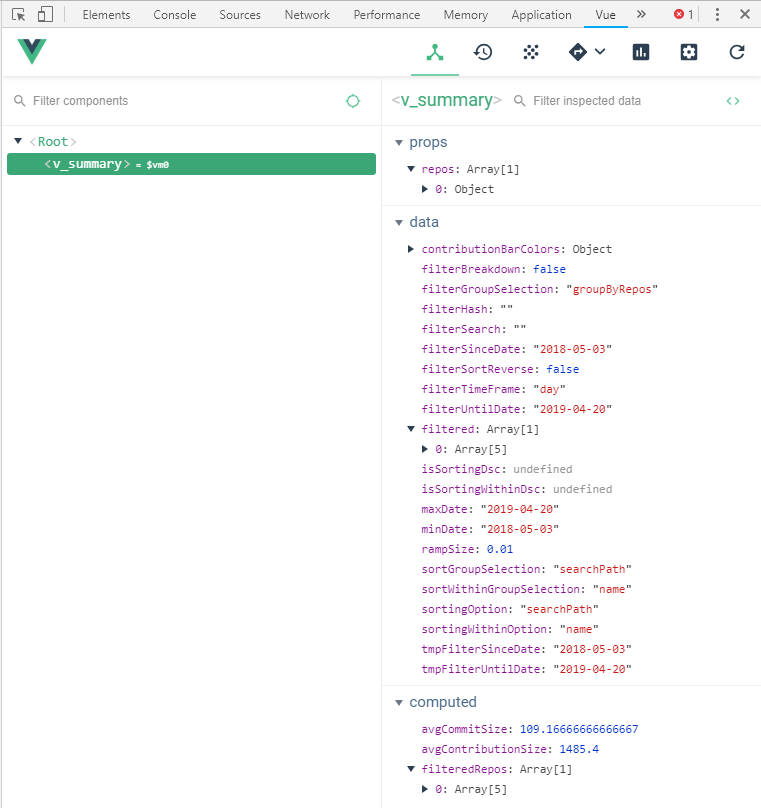
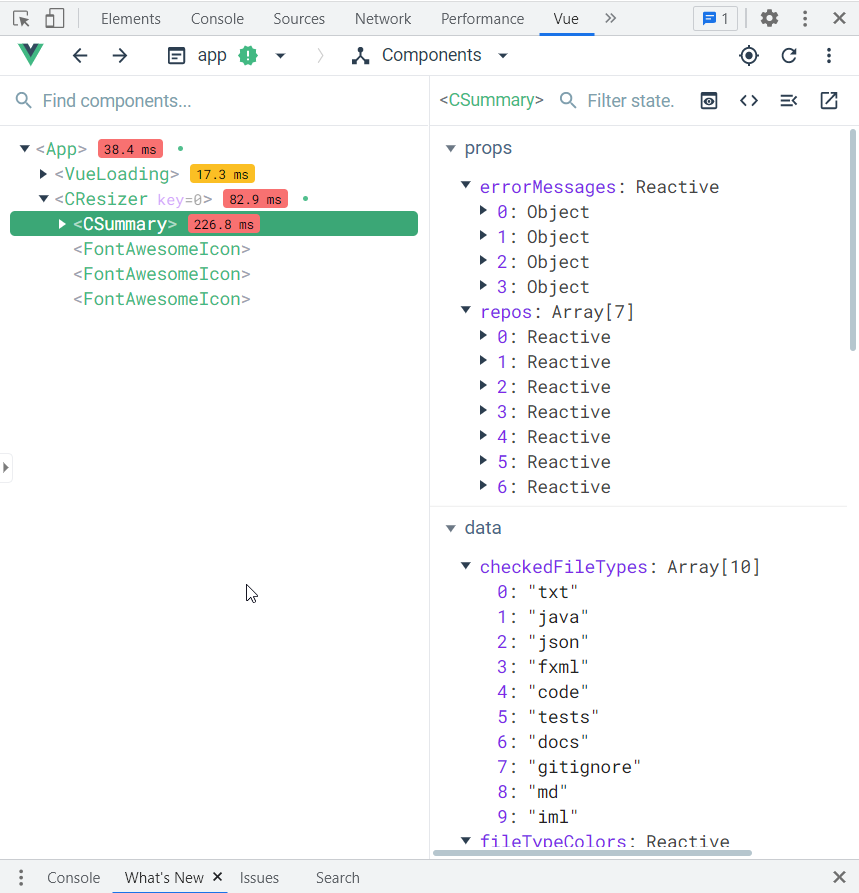
[#1665] rename frontend component (#1836)
The components are all named with a prefix `v-`. However, most reserved
syntax used by Vue uses the `v-` prefix.

Let's change the `-v` prefix to prefix `c-`, so that it will be less
likely to cause confusion and conflicts.

diff --git a/frontend/src/app.vue b/frontend/src/app.vue
@@ -10,10 +10,10 @@
       h3 {{ loadingOverlayMessage }}
 
   template(v-if="userUpdated")
-    v-resizer
+    c-resizer
       template(v-slot:left)
         #summary-wrapper
-          v-summary.tab-padding(
+          c-summary.tab-padding(
             ref="summary",
             v-bind:repos="users",
             v-bind:error-messages="errorMessages"
@@ -42,8 +42,8 @@
         #tabs-wrapper(ref="tabWrapper")
           .tab-content.panel-padding
             .tab-pane
-              v-authorship#tab-authorship(v-if="tabType === 'authorship'")
-              v-zoom#tab-zoom(v-else-if="tabType === 'zoom'")
+              c-authorship#tab-authorship(v-if="tabType === 'authorship'")
+              c-zoom#tab-zoom(v-else-if="tabType === 'zoom'")
               #tab-empty(v-else)
                 .title
                   h2 Welcome to this RepoSense report!
@@ -80,10 +80,10 @@ import JSZip from 'jszip';
 import LoadingOverlay from 'vue-loading-overlay';
 import { mapState } from 'vuex';
 
-import vResizer from './components/v-resizer.vue';
-import vZoom from './views/v-zoom.vue';
-import vSummary from './views/v-summary.vue';
-import vAuthorship from './views/v-authorship.vue';
+import cResizer from './components/c-resizer.vue';
+import cZoom from './views/c-zoom.vue';
+import cSummary from './views/c-summary.vue';
+import cAuthorship from './views/c-authorship.vue';
 
 const loadingResourcesMessage = 'Loading resources...';
 
@@ -304,10 +304,10 @@ const app = {
 
   components: {
     LoadingOverlay,
-    vResizer,
-    vZoom,
-    vSummary,
-    vAuthorship,
+    cResizer,
+    cZoom,
+    cSummary,
+    cAuthorship,
   },
   created() {
     window.decodeHash();

diff --git a/frontend/src/views/c-summary.vue b/frontend/src/views/c-summary.vue
@@ -111,7 +111,7 @@
             v-on:change="getFiltered"
           )
           span {{ fileType }}
-  v-summary-charts(
+  c-summary-charts(
     v-bind:filtered="filtered",
     v-bind:checked-file-types="checkedFileTypes",
     v-bind:avg-contribution-size="avgContributionSize",
@@ -130,7 +130,7 @@
 <script>
 import { mapState } from 'vuex';
 
-import vSummaryCharts from '../components/v-summary-charts.vue';
+import cSummaryCharts from '../components/c-summary-charts.vue';
 import getNonRepeatingColor from '../utils/ramp-colour-generator';
 import sortFiltered from '../utils/repo-sorter';
 
@@ -138,9 +138,9 @@ const getFontColor = window.getFontColor;
 const dateFormatRegex = /([12]\d{3}-(0[1-9]|1[0-2])-(0[1-9]|[12]\d|3[01]))$/;
 
 export default {
-  name: 'v-summary',
+  name: 'c-summary',
   components: {
-    vSummaryCharts,
+    cSummaryCharts,
   },
   props: ['repos', 'errorMessages'],
   data() {

diff --git a/frontend/src/views/c-authorship.vue b/frontend/src/views/c-authorship.vue
@@ -158,13 +158,13 @@
           .ignored-segment
             .ignore-text File is ignored.
         pre.hljs.file-content(v-else-if="file.wasCodeLoaded", v-show="file.active")
-          v-segment-collection(v-bind:segments="file.segments", v-bind:path="file.path")
+          c-segment-collection(v-bind:segments="file.segments", v-bind:path="file.path")
 </template>
 
 <script>
 import { mapState } from 'vuex';
 import minimatch from 'minimatch';
-import vSegmentCollection from '../components/v-segment-collection.vue';
+import cSegmentCollection from '../components/c-segment-collection.vue';
 
 const getFontColor = window.getFontColor;
 
@@ -197,9 +197,9 @@ function authorshipInitialState() {
 const repoCache = [];
 
 export default {
-  name: 'v-authorship',
+  name: 'c-authorship',
   components: {
-    vSegmentCollection,
+    cSegmentCollection,
   },
   emits: [
       'deactivate-tab',

diff --git a/frontend/src/components/c-summary-charts.vue b/frontend/src/components/c-summary-charts.vue
@@ -142,7 +142,7 @@
       .summary-chart__ramp(
         v-on:click="openTabZoomSubrange(user, $event, isGroupMerged(getGroupName(repo)))"
       )
-        v-ramp(
+        c-ramp(
           v-bind:groupby="filterGroupSelection",
           v-bind:user="user",
           v-bind:tframe="filterTimeFrame",
@@ -180,12 +180,12 @@
 <script>
 import { mapState } from 'vuex';
 
-import vRamp from './v-ramp.vue';
+import cRamp from './c-ramp.vue';
 
 export default {
-  name: 'v-summary-charts',
+  name: 'c-summary-charts',
   components: {
-    vRamp,
+    cRamp,
   },
   props: ['checkedFileTypes', 'filtered', 'avgContributionSize', 'filterBreakdown',
       'filterGroupSelection', 'filterTimeFrame', 'filterSinceDate', 'filterUntilDate', 'isMergeGroup',

diff --git a/frontend/src/views/c-zoom.vue b/frontend/src/views/c-zoom.vue
@@ -43,7 +43,7 @@
               font-awesome-icon(icon="tags")
               span &nbsp;{{ tag }}
 
-  v-ramp(
+  c-ramp(
     v-bind:groupby="info.zFilterGroup",
     v-bind:user="filteredUser",
     v-bind:tframe="info.zTimeFrame",
@@ -134,7 +134,7 @@
 <script>
 import { mapState } from 'vuex';
 import { FontAwesomeIcon } from '@fortawesome/vue-fontawesome';
-import vRamp from '../components/v-ramp.vue';
+import cRamp from '../components/c-ramp.vue';
 
 const getFontColor = window.getFontColor;
 
@@ -150,10 +150,10 @@ function zoomInitialState() {
 }
 
 export default {
-  name: 'v-zoom',
+  name: 'c-zoom',
   components: {
     FontAwesomeIcon,
-    vRamp,
+    cRamp,
   },
   data() {
     return {

diff --git a/frontend/src/components/c-segment-collection.vue b/frontend/src/components/c-segment-collection.vue
@@ -1,16 +1,16 @@
 <template lang="pug">
 .segment-collection(v-observe-visibility="{ callback: visibilityChanged }")
   template(v-if="isRendered", v-for="segment in segments")
-    v-segment(v-bind:segment="segment", v-bind:path="path")
+    c-segment(v-bind:segment="segment", v-bind:path="path")
 </template>
 
 <script>
-import vSegment from './v-segment.vue';
+import cSegment from './c-segment.vue';
 
 export default {
-  name: 'v-segment-collection',
+  name: 'c-segment-collection',
   components: {
-    vSegment,
+    cSegment,
   },
   props: ['segments', 'path'],
   data() {

diff --git a/frontend/src/components/c-ramp.vue b/frontend/src/components/c-ramp.vue
@@ -34,7 +34,7 @@
 
 <script>
 export default {
-  name: 'v-ramp',
+  name: 'c-ramp',
   props: ['groupby', 'user', 'tframe', 'avgsize', 'sdate', 'udate', 'mergegroup', 'fromramp', 'filtersearch'],
   data() {
     return {

diff --git a/frontend/src/components/c-resizer.vue b/frontend/src/components/c-resizer.vue
@@ -39,7 +39,7 @@ const throttledEvent = (delay, handler) => {
 };
 
 export default {
-  name: 'v-resizer',
+  name: 'c-resizer',
 
   data() {
     return {

diff --git a/frontend/src/components/c-segment.vue b/frontend/src/components/c-segment.vue
@@ -26,7 +26,7 @@
 
 <script>
 export default {
-  name: 'v-segment',
+  name: 'c-segment',
   props: ['segment', 'path'],
   data() {
     return {

diff --git a/docs/dg/report.md b/docs/dg/report.md
@@ -36,11 +36,11 @@ The tabbed interface is responsible for loading various modules such as authorsh
 - **main.js** - sets up plugins and 3rd party components used in the report
 - [**app.vue**](#app-app-vue) - module that supports the report interface
 - [**api.js**](#data-loader-api-js) - loading and parsing of the report content
-- [**v_summary.vue**](#summary-view-v-summary-vue) - module that supports the summary view
-- [**v_authorship.vue**](#authorship-view-v-authorship-vue) - module that supports the authorship tab view
-- [**v_zoom.vue**](#zoom-view-v-zoom-vue) - module that supports the zoom tab view
-- [**v_ramp.vue**](#ramp-view-v-ramp-vue) - module that supports the ramp chart view
-- [**v_segment.vue**](#segment-view-v-segment-vue) - module that supports the code segment view
+- [**c_summary.vue**](#summary-view-c-summary-vue) - module that supports the summary view
+- [**c_authorship.vue**](#authorship-view-c-authorship-vue) - module that supports the authorship tab view
+- [**c_zoom.vue**](#zoom-view-c-zoom-vue) - module that supports the zoom tab view
+- [**c_ramp.vue**](#ramp-view-c-ramp-vue) - module that supports the ramp chart view
+- [**c_segment.vue**](#segment-view-c-segment-vue) - module that supports the code segment view
 
 <!-- ==================================================================================================== -->
 
@@ -58,12 +58,12 @@ This contains the logic for the main VueJS object, `app.vue`, which is the entry
 
 Vuex in `store.js` is used to pass the necessary data into the relevant modules.
 
-`v_summary`, `v_authorship`, `v_zoom`, `v_segment`, and `v_ramp` are components embedded into the report and will render the corresponding content based on the data passed into it from Vuex.
+`c_summary`, `c_authorship`, `c_zoom`, `c_segment`, and `c_ramp` are components embedded into the report and will render the corresponding content based on the data passed into it from Vuex.
 
 ### Loading of report information
 The main Vue object depends on the `summary.json` data to determine the right `commits.json` files to load into memory. This is handled by `api.js`, which loads the relevant file information from the network files if available; otherwise, a report archive, `archive.zip`, has to be used.
 
-Once the relevant `commit.json` files are loaded, all the repo information will be passed into `v_summary` to be loaded in the summary view as the relevant ramp charts.
+Once the relevant `commit.json` files are loaded, all the repo information will be passed into `c_summary` to be loaded in the summary view as the relevant ramp charts.
 
 ### Activating additional view modules
 Most activity or actions should happen within the module itself, but in the case where there is a need to spawn or alter the view of another module, an event is emitted from the first module to the Vuex store, which then handles the data received and passes it along to the relevant modules.
@@ -88,9 +88,9 @@ For the basic skeleton of `window.REPOS`, refer to the generated `summary.json` 
 
 <!-- ==================================================================================================== -->
 
-## Summary view ([v-summary.vue](https://github.com/reposense/RepoSense/blob/master/frontend/src/views/v-summary.vue))
+## Summary view ([c-summary.vue](https://github.com/reposense/RepoSense/blob/master/frontend/src/views/c-summary.vue))
 
-The `v_summary` module is in charge of loading the ramp charts from the corresponding `commits.json`.
+The `c_summary` module is in charge of loading the ramp charts from the corresponding `commits.json`.
 
 <puml src="../diagrams/ReportArchitectureSummary.puml"/>
 
@@ -102,7 +102,7 @@ The commits information is retrieved from the corresponding project folders for 
 
 <!-- ==================================================================================================== -->
 
-## Authorship view ([v-authorship.vue](https://github.com/reposense/RepoSense/blob/master/frontend/src/views/v-authorship.vue))
+## Authorship view ([c-authorship.vue](https://github.com/reposense/RepoSense/blob/master/frontend/src/views/c-authorship.vue))
 
 The authorship module retrieves the relevant information from the corresponding `authorship.json` file if it is not yet loaded. If it has been loaded, the data will be written into `window.REPOS` and be read from there instead.
 
@@ -113,21 +113,21 @@ The files will be filtered, picking only files the selected author has written i
 
 <!-- ==================================================================================================== -->
 
-## Zoom view ([v-zoom.vue](https://github.com/reposense/RepoSense/blob/master/frontend/src/views/v-zoom.vue))
+## Zoom view ([c-zoom.vue](https://github.com/reposense/RepoSense/blob/master/frontend/src/views/c-zoom.vue))
 
-The `v_zoom` module is in charge of filtering and displaying the commits from the ramp chart's selected sub-range.
+The `c_zoom` module is in charge of filtering and displaying the commits from the ramp chart's selected sub-range.
 
 <!-- ==================================================================================================== -->
 
-## Ramp view ([v-ramp.vue](https://github.com/reposense/RepoSense/blob/master/frontend/src/components/v-ramp.vue))
+## Ramp view ([c-ramp.vue](https://github.com/reposense/RepoSense/blob/master/frontend/src/components/c-ramp.vue))
 
-The `v_ramp` module is responsible for receiving the relevant information from `v_summary` and generating ramp charts that contain ramp slices.
+The `c_ramp` module is responsible for receiving the relevant information from `c_summary` and generating ramp charts that contain ramp slices.
 
 ### Padding for dates
 For ramps between the date ranges, the slices will be selected and it will be pre and post padded with empty slices to align the ramp slice between the `sinceDate` and `untilDate`. The ramps will then be rendered with the slices in the right position.
 
 <!-- ==================================================================================================== -->
 
-## Segment view ([v-segment.vue](https://github.com/reposense/RepoSense/blob/master/frontend/src/components/v-segment.vue))
+## Segment view ([c-segment.vue](https://github.com/reposense/RepoSense/blob/master/frontend/src/components/c-segment.vue))
 
-The `v-segment` module is used as a component in `v_authorship`. It separates the code in terms of "touched" and "untouched" segments and only loads each "untouched" segment when it is toggled.
+The `c-segment` module is used as a component in `c_authorship`. It separates the code in terms of "touched" and "untouched" segments and only loads each "untouched" segment when it is toggled.

diff --git a/docs/dg/learningBasics.md b/docs/dg/learningBasics.md
@@ -333,29 +333,29 @@ Here are some small tasks for you to gain some basic knowledge of the code relat
 
   <panel header="Hint 1">
 
-  Try to locate where the author title is in [`v-summary-charts.vue`](https://github.com/reposense/RepoSense/blob/master/frontend/src/components/v-summary-charts.vue).
+  Try to locate where the author title is in [`c-summary-charts.vue`](https://github.com/reposense/RepoSense/blob/master/frontend/src/components/c-summary-charts.vue).
   </panel>
 
   <panel header="Hint 2">
 
-  You can check what `activeUser` and `activeRepo` do in [`v-summary-charts.vue`](https://github.com/reposense/RepoSense/blob/master/frontend/src/components/v-summary-charts.vue).
+  You can check what `activeUser` and `activeRepo` do in [`c-summary-charts.vue`](https://github.com/reposense/RepoSense/blob/master/frontend/src/components/c-summary-charts.vue).
   </panel>
 
   <panel header="Hint 3">
 
-  Refer to how changes are made to the title background and icon background in [`v-summary-charts.vue`](https://github.com/reposense/RepoSense/blob/master/frontend/src/components/v-summary-charts.vue).
+  Refer to how changes are made to the title background and icon background in [`c-summary-charts.vue`](https://github.com/reposense/RepoSense/blob/master/frontend/src/components/c-summary-charts.vue).
   </panel>
 
   <panel header="Hint 4">
 
-  Some of the CSS styling for `v-summary-charts.vue` is in [`style.scss`](https://github.com/reposense/RepoSense/blob/master/frontend/src/styles/style.scss). You can add corresponding class selector if necessary.
+  Some of the CSS styling for `c-summary-charts.vue` is in [`style.scss`](https://github.com/reposense/RepoSense/blob/master/frontend/src/styles/style.scss). You can add corresponding class selector if necessary.
   </panel>
 
   <panel header="Suggested solution">
 
   There is more than 1 way to achieve this. One solution is shown as the following:
 
-  Add this to `v_summary.scss`.
+  Add this to `c_summary.scss`.
 
   ```
   .active-text {
@@ -363,7 +363,7 @@ Here are some small tasks for you to gain some basic knowledge of the code relat
   }
   ```
 
-  In `v-summary-charts.vue`, locate `summary-chart__title--name`, and add the following to its `v-bind:class` attribute map.
+  In `c-summary-charts.vue`, locate `summary-chart__title--name`, and add the following to its `v-bind:class` attribute map.
 
   ```
   'active-text': user.name === activeUser && user.repoName === activeRepo
@@ -393,12 +393,12 @@ Here are some small tasks for you to gain some basic knowledge of the code relat
 
   <panel header="Hint 1">
 
-  Try to locate where the file title and the file path are in [`v-authorship.vue`](https://github.com/reposense/RepoSense/blob/master/frontend/src/views/v-authorship.vue).
+  Try to locate where the file title and the file path are in [`c-authorship.vue`](https://github.com/reposense/RepoSense/blob/master/frontend/src/views/c-authorship.vue).
   </panel>
 
   <panel header="Hint 2">
 
-  You can check how tooltip is added for the triangular icon in the file title in [`v-authorship.vue`](https://github.com/reposense/RepoSense/blob/master/frontend/src/views/v-authorship.vue).
+  You can check how tooltip is added for the triangular icon in the file title in [`c-authorship.vue`](https://github.com/reposense/RepoSense/blob/master/frontend/src/views/c-authorship.vue).
   </panel>
 
   <panel header="Hint 3">
@@ -410,7 +410,7 @@ Here are some small tasks for you to gain some basic knowledge of the code relat
 
   There is more than 1 way to achieve this. One solution is shown as the following:
   
-  1. In `v-authorship.vue`, locate the section that iterates through each file in `selectedFiles`. 
+  1. In `c-authorship.vue`, locate the section that iterates through each file in `selectedFiles`. 
   2. There is a specific portion of the section that renders the toggle icon, the file index, and the file path of the file title.
   3. Try to locate the `span` tag that renders `file.path`, and wraps it inside a new `tooptip`.
   4. In the `tooltip`, use the following instructions to handle the switch of tooltip message.
@@ -442,12 +442,12 @@ Here are some small tasks for you to gain some basic knowledge of the code relat
 
   <panel header="Hint 1">
 
-  Try to locate where the commit title is in [`v-zoom.vue`](https://github.com/reposense/RepoSense/blob/master/frontend/src/views/v-zoom.vue).
+  Try to locate where the commit title is in [`c-zoom.vue`](https://github.com/reposense/RepoSense/blob/master/frontend/src/views/c-zoom.vue).
   </panel>
 
   <panel header="Hint 2">
 
-  You can check how tooltip is added for other icons in [`v-zoom.vue`](https://github.com/reposense/RepoSense/blob/master/frontend/src/views/v-zoom.vue).
+  You can check how tooltip is added for other icons in [`c-zoom.vue`](https://github.com/reposense/RepoSense/blob/master/frontend/src/views/c-zoom.vue).
   </panel>
 
   <panel header="Hint 3">
@@ -459,7 +459,7 @@ Here are some small tasks for you to gain some basic knowledge of the code relat
 
   There is more than 1 way to achieve this. One solution is shown as the following:
   
-  1. In `v-zoom.vue`, locate the section that iterates through each `day` in `selectedCommits`.
+  1. In `c-zoom.vue`, locate the section that iterates through each `day` in `selectedCommits`.
   2. The component that helps render the commit message title should be an `a` tag which uses the `getSliceLink` method to set the link to the commit details and uses `slice.messageTitle` to show the commit message title.
   3. Wrap the `a` tag in a new `tooltip`.
   4. In the `tooltip`, add the following content to show the tooltip message.
